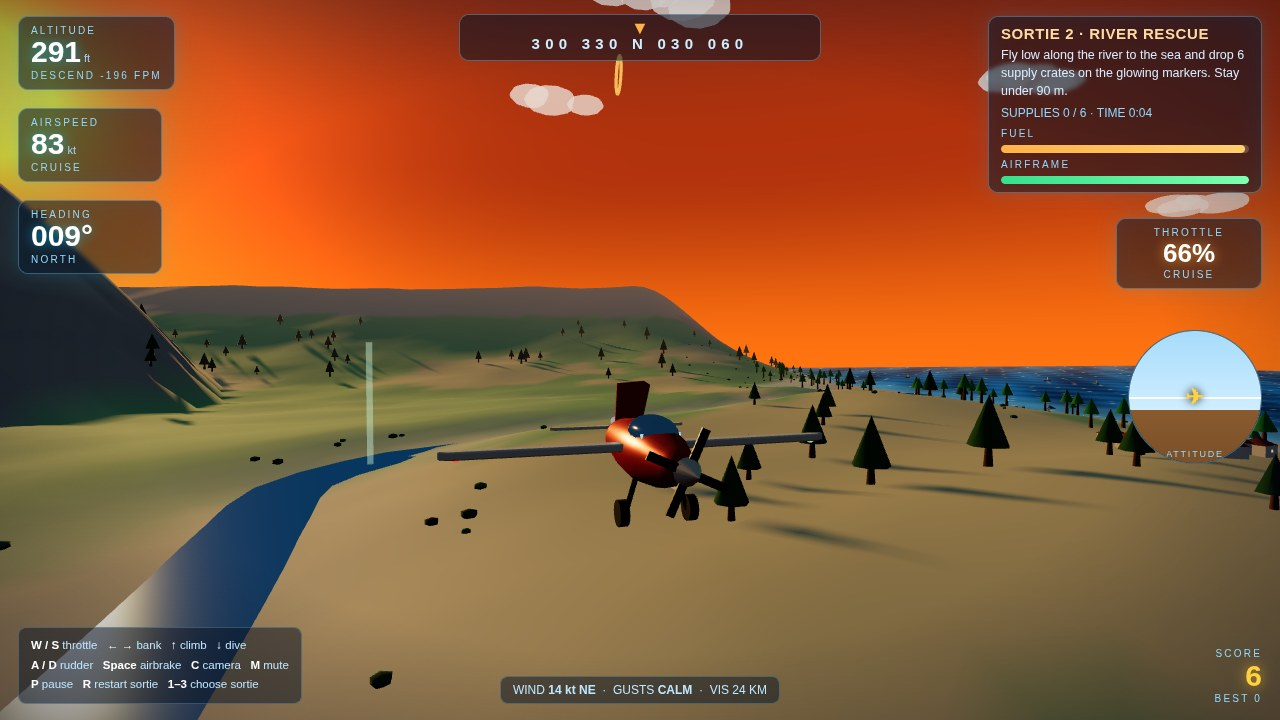
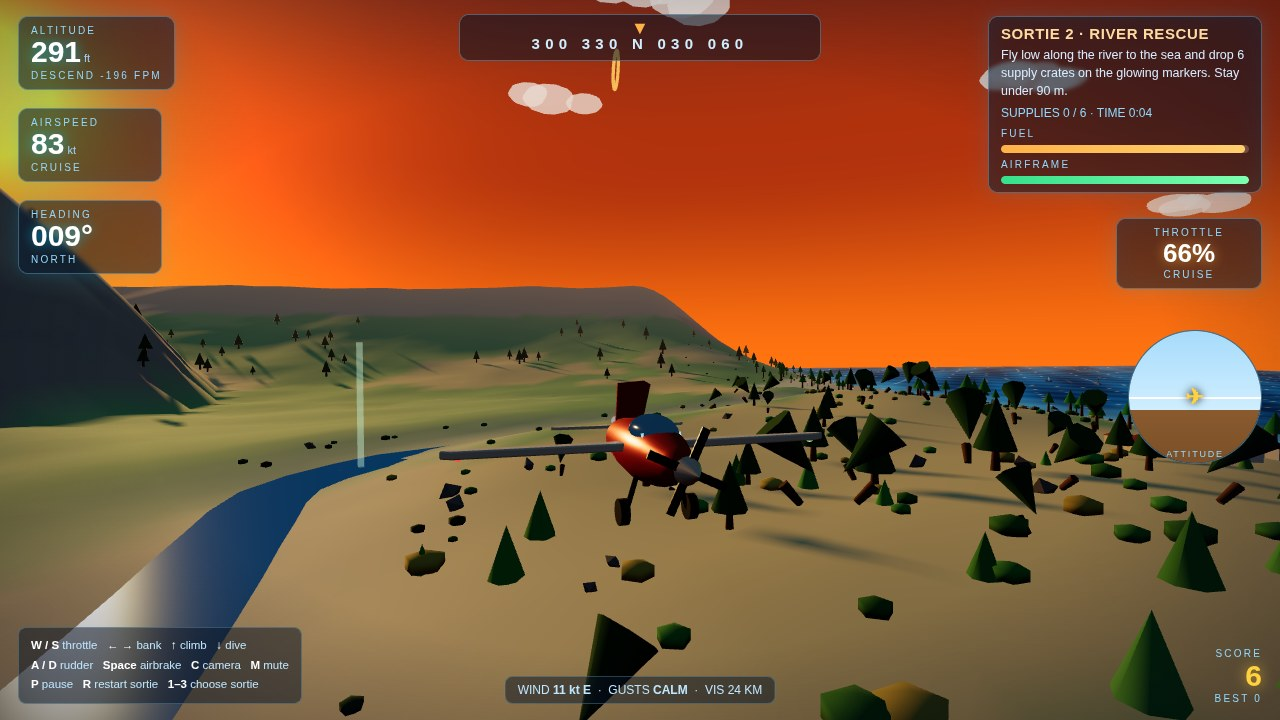
Shot 2: densify river valley foreground

diff --git a/game/src/life.js b/game/src/life.js
@@ -575,6 +575,138 @@ const Life = (function buildLifeModule() {
     }
   }
 
+  function buildRiverForeground(scene) {
+    // Shot-2-only foreground dressing, built ONLY when ?shot=river. The
+    // river valley floor in the river frame (z -1600..-200, river to coast)
+    // reads as one big bare sand patch: the corridor bushes are too few and
+    // too small, and trees skip the low ground (h < 20). This ground sits
+    // in shots 1/3/4's distant frustum, so world-wide clutter there would
+    // move their pixels — hence the shot gate (same pattern as the per-shot
+    // staging in shots.js). Instanced 30-tri spheres + 8-tri rocks + pines,
+    // no lights, no shadows, no per-frame work.
+    if (new URLSearchParams(window.location.search).get('shot') !== 'river') return;
+    const rng = makeRng(9092);
+    const col = new THREE.Color();
+    // 200 bushes in TWO bands: 130 concentrated in the near foreground
+    // (z -750..-250 — the ground that fills the bottom half of the frame),
+    // 70 spread over the far floor (z -1600..-750). The first pass spread
+    // them evenly over 1400 m and the near field stayed bare. Bigger than
+    // the corridor bushes (scale 4-8 near) so they read at 100-400 m, and
+    // lighter greens — the dark 0x2a5d2e read as black blobs in golden hour.
+    const bGeo = new THREE.SphereGeometry(1, 5, 3);
+    const bMat = new THREE.MeshStandardMaterial({ color: 0xffffff, roughness: 1 });
+    const bushes = new THREE.InstancedMesh(bGeo, bMat, 200);
+    let placed = 0, tries = 0;
+    while (placed < 200 && tries < 10000) {
+      tries++;
+      const near = placed < 130;
+      const z = near ? -750 + rng() * 500 : -1600 + rng() * 850;
+      const x = Terrain.riverCenterX(z) - 120 + rng() * (1120 - Terrain.riverCenterX(z));
+      const hy = Terrain.heightAt(x, z);
+      if (hy < 3 || hy > 150) continue;
+      if (Math.abs(x - Terrain.riverCenterX(z)) < 50) continue; // keep the ribbon clear
+      if (Math.abs(x - roadX(z)) < 10) continue;
+      const s = near ? 4 + rng() * 4 : 3 + rng() * 3;
+      dummy.position.set(x, hy + s * 0.35, z);
+      dummy.rotation.set(0, rng() * Math.PI, 0);
+      dummy.scale.set(s, s * 0.55, s);
+      dummy.updateMatrix();
+      bushes.setMatrixAt(placed, dummy.matrix);
+      // Lighter greens, ~1 in 4 dry gold so the fill is not one flat tone.
+      if (rng() < 0.25) col.setHex(0x9a8a3a).offsetHSL(0, 0, (rng() - 0.5) * 0.08);
+      else col.setHex(0x3d7a35).offsetHSL(0, 0, (rng() - 0.5) * 0.1);
+      bushes.setColorAt(placed, col);
+      placed++;
+    }
+    bushes.count = placed;
+    bushes.instanceColor.needsUpdate = true;
+    scene.add(bushes);
+    // 60 grass tufts (small cones) in the near band — vertical scrub texture
+    // the squashed spheres alone do not give.
+    const gGeo = new THREE.ConeGeometry(2.2, 6, 7);
+    const gMat = new THREE.MeshStandardMaterial({ color: 0xffffff, roughness: 1 });
+    const tufts = new THREE.InstancedMesh(gGeo, gMat, 60);
+    placed = 0; tries = 0;
+    while (placed < 60 && tries < 6000) {
+      tries++;
+      const z = -750 + rng() * 500;
+      const x = Terrain.riverCenterX(z) - 120 + rng() * (1120 - Terrain.riverCenterX(z));
+      const hy = Terrain.heightAt(x, z);
+      if (hy < 3 || hy > 150) continue;
+      if (Math.abs(x - Terrain.riverCenterX(z)) < 50) continue;
+      if (Math.abs(x - roadX(z)) < 10) continue;
+      const s = 1.2 + rng() * 1.8;
+      dummy.position.set(x, hy + 3 * s, z);
+      dummy.rotation.set(0, rng() * Math.PI, 0);
+      dummy.scale.set(s, s, s);
+      dummy.updateMatrix();
+      tufts.setMatrixAt(placed, dummy.matrix);
+      col.setHex(0x4a8a3a).offsetHSL(0, 0, (rng() - 0.5) * 0.1);
+      tufts.setColorAt(placed, col);
+      placed++;
+    }
+    tufts.count = placed;
+    tufts.instanceColor.needsUpdate = true;
+    scene.add(tufts);
+    // 60 rocks across the same floor, 40 near / 20 far.
+    const rGeo = new THREE.OctahedronGeometry(1, 0);
+    const rMat = new THREE.MeshStandardMaterial({ color: 0xffffff, roughness: 1 });
+    const rocks = new THREE.InstancedMesh(rGeo, rMat, 60);
+    placed = 0; tries = 0;
+    while (placed < 60 && tries < 6000) {
+      tries++;
+      const near = placed < 40;
+      const z = near ? -750 + rng() * 500 : -1600 + rng() * 850;
+      const x = Terrain.riverCenterX(z) - 120 + rng() * (1120 - Terrain.riverCenterX(z));
+      const hy = Terrain.heightAt(x, z);
+      if (hy < 3 || hy > 150) continue;
+      if (Math.abs(x - Terrain.riverCenterX(z)) < 50) continue;
+      if (Math.abs(x - roadX(z)) < 10) continue;
+      const s = 2 + rng() * 4;
+      dummy.position.set(x, hy + s * 0.3, z);
+      dummy.rotation.set(rng() * 3, rng() * 3, rng() * 3);
+      dummy.scale.set(s, s * 0.6, s);
+      dummy.updateMatrix();
+      rocks.setMatrixAt(placed, dummy.matrix);
+      col.setHex(0x6a625a).offsetHSL(0, 0, (rng() - 0.5) * 0.1);
+      rocks.setColorAt(placed, col);
+      placed++;
+    }
+    rocks.count = placed;
+    rocks.instanceColor.needsUpdate = true;
+    scene.add(rocks);
+    // 40 pines where the floor is high enough (h 20-150), same pattern as
+    // buildTrees but aimed at this corridor.
+    const tGeo = new THREE.CylinderGeometry(1.1, 1.6, 7, 6);
+    const tMat = new THREE.MeshStandardMaterial({ color: 0x5d3a1a, roughness: 1 });
+    const cGeo = new THREE.ConeGeometry(6.5, 17, 7);
+    const cMat = new THREE.MeshStandardMaterial({ color: 0x1e4d26, roughness: 0.95 });
+    const trunks = new THREE.InstancedMesh(tGeo, tMat, 40);
+    const cones = new THREE.InstancedMesh(cGeo, cMat, 40);
+    placed = 0; tries = 0;
+    while (placed < 40 && tries < 6000) {
+      tries++;
+      const z = -1600 + rng() * 1400;
+      const x = Terrain.riverCenterX(z) - 140 + rng() * (1140 - Terrain.riverCenterX(z));
+      const hy = Terrain.heightAt(x, z);
+      if (hy < 20 || hy > 150) continue;
+      if (Math.abs(x - Terrain.riverCenterX(z)) < 60) continue;
+      if (Math.abs(x - roadX(z)) < 10) continue;
+      const s = 0.8 + rng() * 0.9;
+      dummy.position.set(x, hy + 3 * s, z);
+      dummy.scale.setScalar(s);
+      dummy.rotation.y = rng() * Math.PI * 2;
+      dummy.updateMatrix();
+      trunks.setMatrixAt(placed, dummy.matrix);
+      dummy.position.y = hy + 15 * s;
+      dummy.updateMatrix();
+      cones.setMatrixAt(placed, dummy.matrix);
+      placed++;
+    }
+    trunks.count = placed; cones.count = placed;
+    scene.add(trunks); scene.add(cones);
+  }
+
   function build(scene) {
     buildRoad(scene);
     buildCars(scene);
@@ -584,6 +716,7 @@ const Life = (function buildLifeModule() {
     buildUmbrellas(scene);
     buildBushes(scene);
     buildBushes2(scene);
+    buildRiverForeground(scene);
     buildRocks(scene);
     buildBuoys(scene);
     buildFerries(scene);
